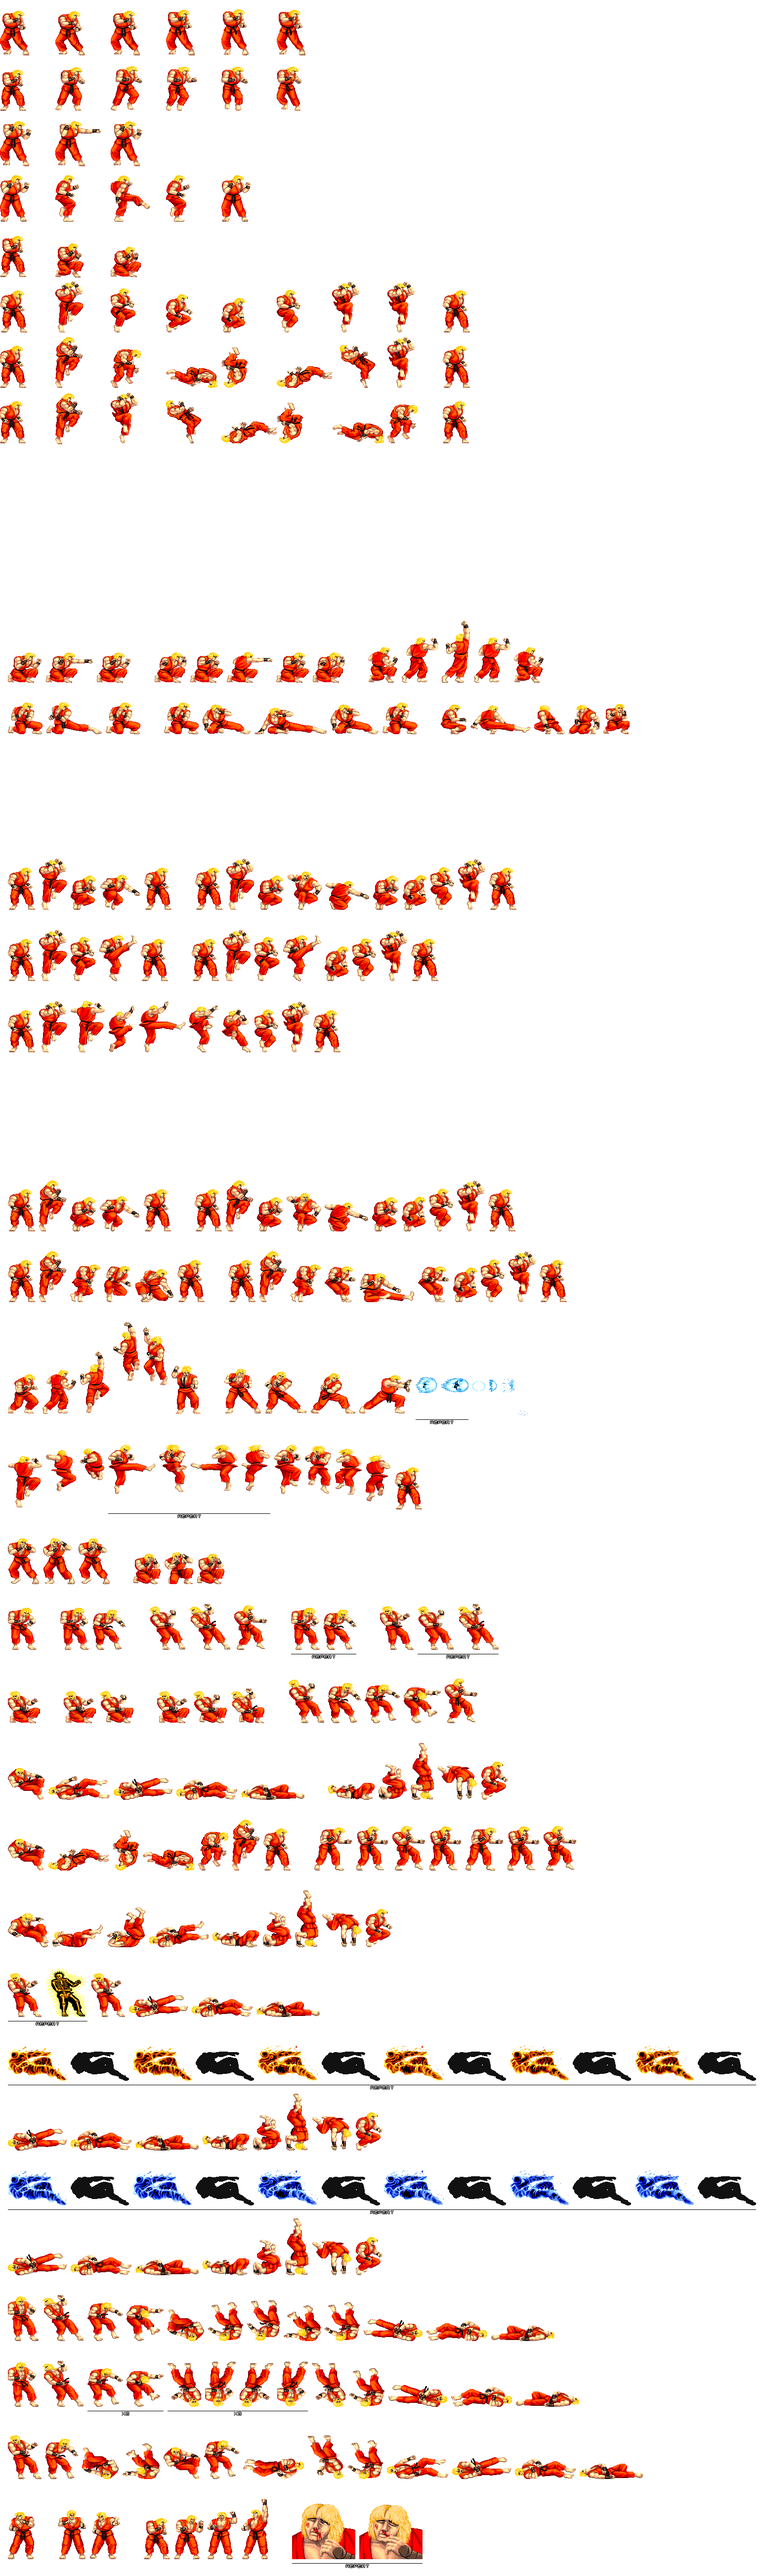
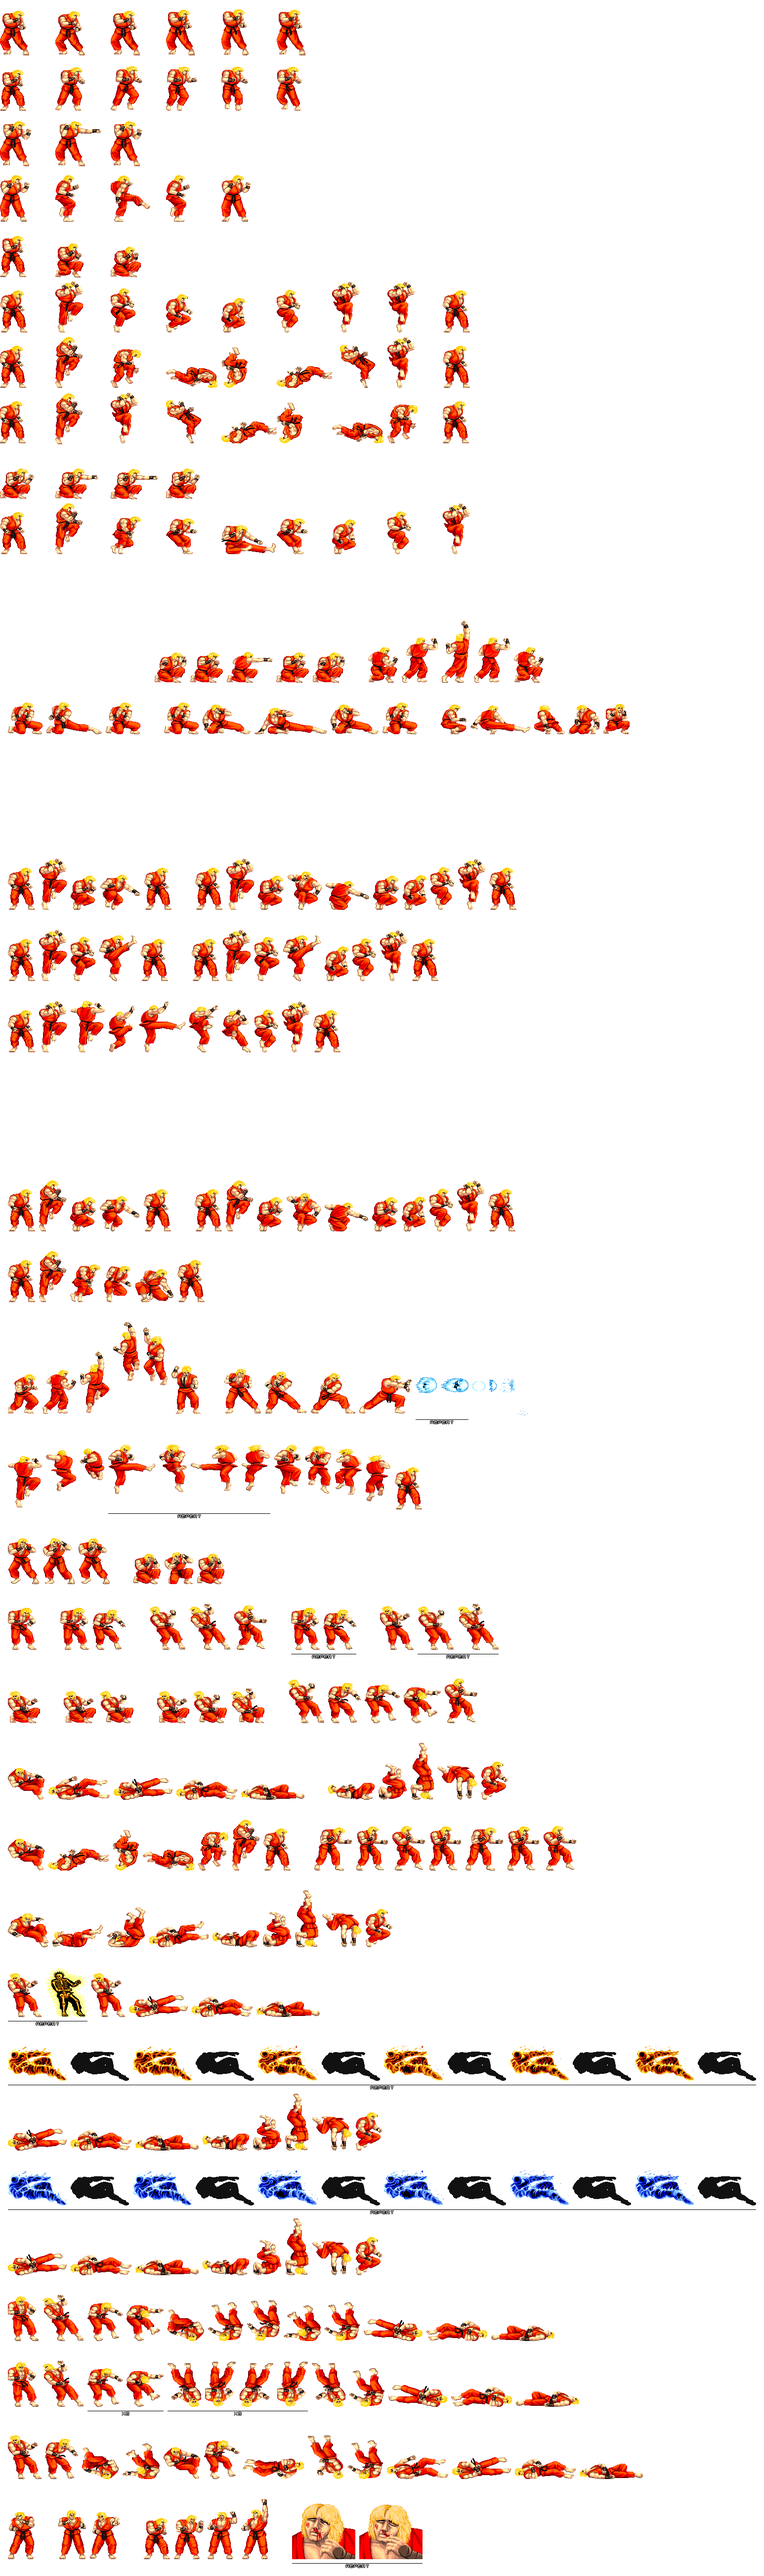
imagens dos sprites para ataque pulando e agachado adicionadas

diff --git a/src/main.c b/src/main.c
@@ -435,6 +435,7 @@ int main() {
                     }
                     if (resultado == 1) p1Wins++;
                     else if (resultado == 2) p2Wins++;
+                    else break; //clicou para sair
                     showWinner(font, resultado);
                     resetAttributes(&player_1, 61, 92, 10, Y_SCREEN/2);
                     resetAttributes(&player_2, 61, 92, X_SCREEN-122, Y_SCREEN/2);
